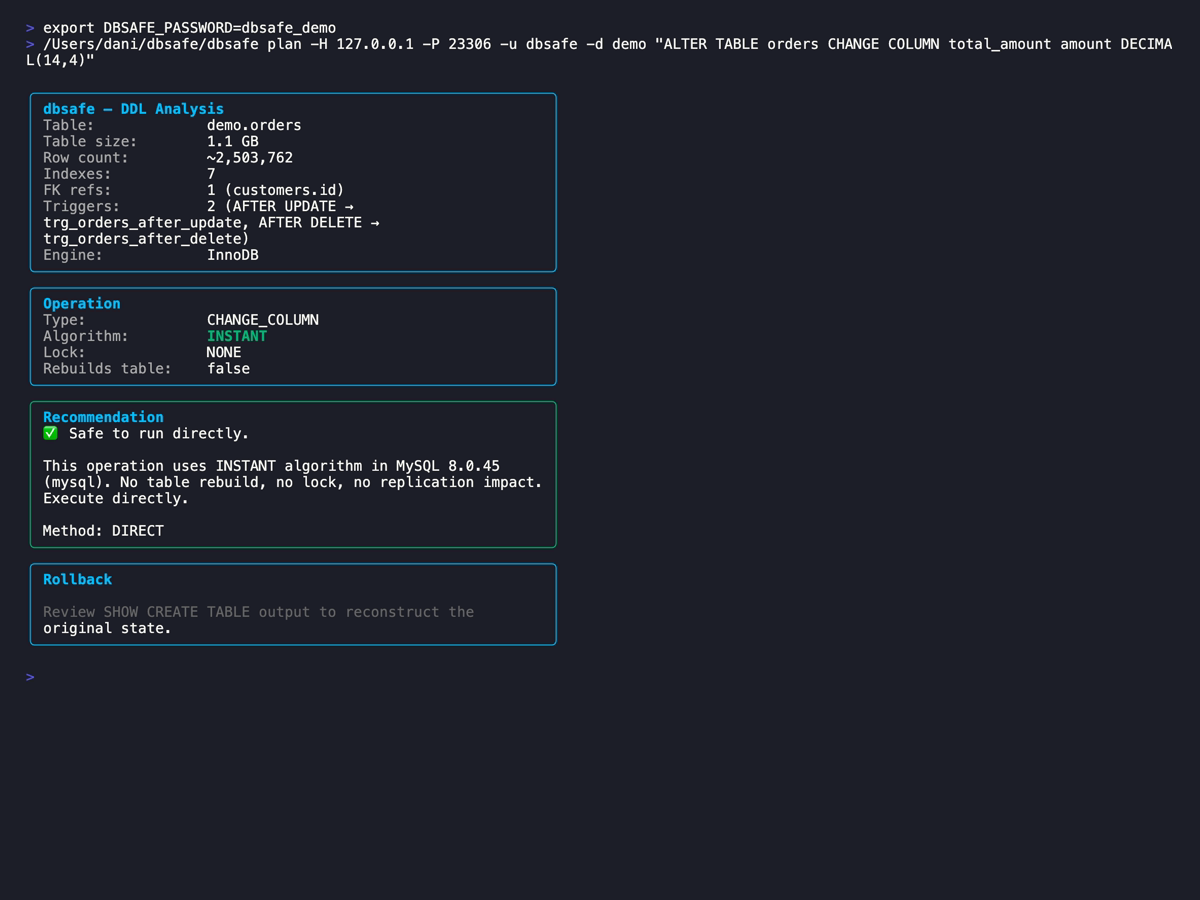
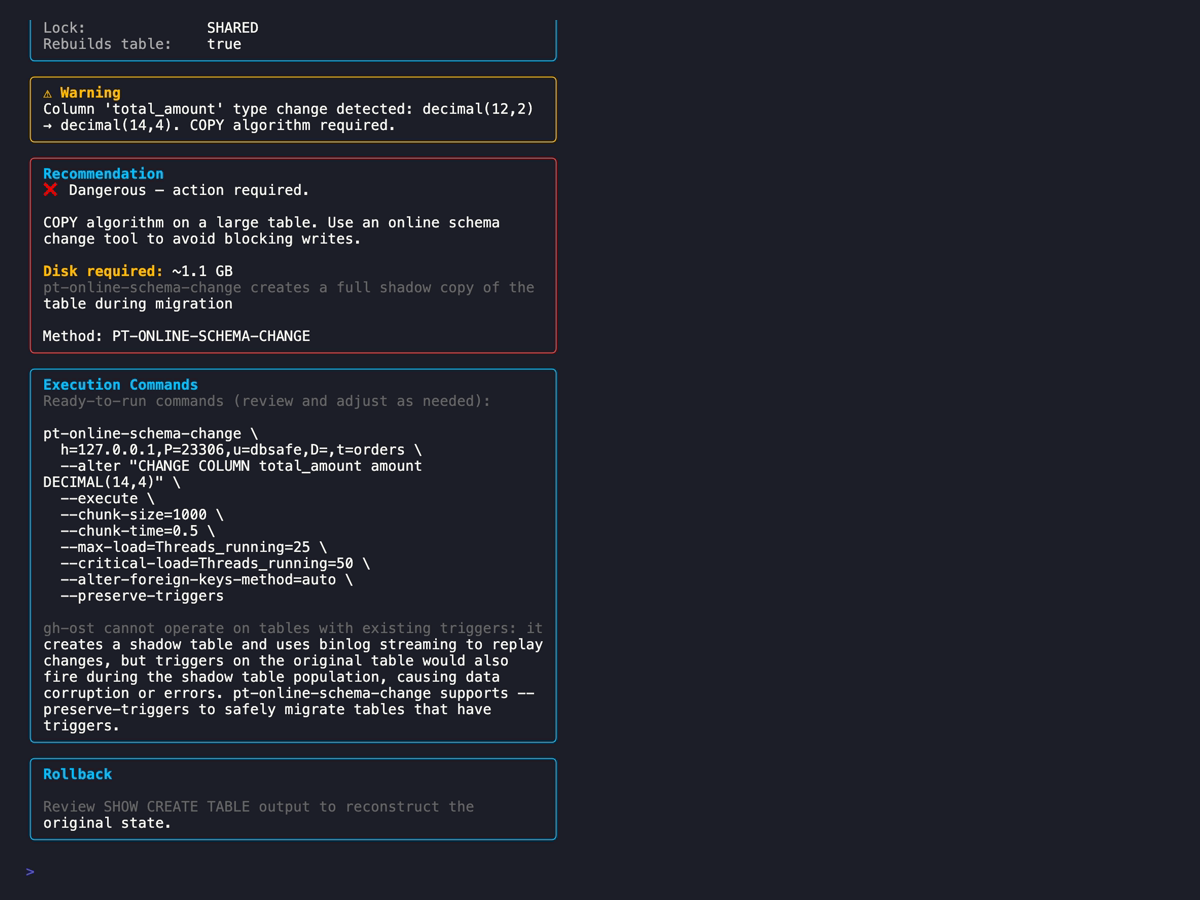
Fact-check and correct COPY algorithm post
- Fix locking model: COPY uses LOCK=SHARED, not exclusive — reads continue
- Fix VARCHAR widening: explain 255-byte length-prefix boundary; charset
  determines whether crossing occurs (utf8mb4 makes VARCHAR(100) = 400 bytes)
- Fix charset conversion: INPLACE with rebuild, not COPY — concurrent DML allowed
- Fix gh-ost trigger claim: gh-ost is triggerless by design; trigger tables are
  an incompatibility, not a mechanism conflict
- Fix replication: replicas re-execute ALTER TABLE independently, not row DML
- Fix RENAME COLUMN version: INSTANT from 8.0.28+ (INPLACE on 8.0.3–8.0.27)
- Fix summary COPY triggers: remove NOT NULL (INPLACE), qualify PK changes
- Fix Galera/Aurora: soften language, Aurora needs workarounds not impossible
- Add gh-ost triggerless design doc to references

Changed region(s): [[0.0, 0.0, 0.9867, 0.9333], [0.2775, 0.8711, 0.4008, 0.9022], [0.3392, 0.2178, 0.4008, 0.2489]]

diff --git a/_posts/2026-02-22-copy-algorithm-mysql-dbsafe.md b/_posts/2026-02-22-copy-algorithm-mysql-dbsafe.md
@@ -10,7 +10,7 @@ header_img: /assets/img/gallery/copy-algorithm-hero.png
 
 You run `ALTER TABLE orders MODIFY COLUMN status VARCHAR(100)` on your production table. It looks simple — the column already exists, you're just increasing the size limit. Then you watch the operation spin for 40 minutes while your application throws lock timeout errors and your replica falls an hour behind. MySQL didn't update the column definition. It built an entirely new copy of the table from scratch.
 
-This is the COPY algorithm: the most disruptive class of `ALTER TABLE` operations. Unlike the [INSTANT DDL operations covered in the previous post](/mysql/tools/2026/02/21/instant-ddl-mysql-dbsafe.html), COPY operations touch every row, hold exclusive locks for the duration, and can take hours on large tables — or days.
+This is the COPY algorithm: the most disruptive class of `ALTER TABLE` operations. Unlike the [INSTANT DDL operations covered in the previous post](/mysql/tools/2026/02/21/instant-ddl-mysql-dbsafe.html), COPY operations touch every row, block DML for the duration, and can take hours on large tables — or days.
 
 This post covers exactly which operations trigger COPY, what physically happens at the InnoDB level, how table size translates to actual risk, and how [dbsafe](/mysql/tools/2026/02/14/introducing-dbsafe-know-before-you-alter.html) detects the algorithm and generates the mitigation commands you need.
 
@@ -43,9 +43,9 @@ No rows are skipped. The operation is as expensive as it looks — a full sequen
 
 Four risk factors compound this:
 
-1. **Exclusive locks** — the table is locked for reads and writes for the entire duration of the copy on MySQL standalone. Applications cannot read or write affected rows.
+1. **Shared lock** — the table is locked for writes (DML) but reads (`SELECT`) continue under `LOCK=SHARED` during the copy. Applications cannot insert, update, or delete rows, but queries can still read.
 2. **Disk space doubles** — the new table must exist alongside the original until the rename. A 200GB table requires 200GB of free disk space during the operation.
-3. **Replication lag** — replicas apply the full row copy as a DML workload, creating lag proportional to table size and I/O throughput.
+3. **Replication lag** — replicas must independently re-execute the full `ALTER TABLE`, creating lag proportional to table size and I/O throughput.
 4. **Duration scales with row count** — 10 million rows takes roughly 10× longer than 1 million rows. There's no shortcut.
 
 INPLACE operations are better — they often avoid the row-by-row copy — but can still require an internal data rebuild and may hold metadata locks. INSTANT is the only truly lock-free path, and it only applies to [a specific set of operations](/mysql/tools/2026/02/21/instant-ddl-mysql-dbsafe.html).
@@ -68,7 +68,14 @@ dbsafe plan "ALTER TABLE orders MODIFY COLUMN status VARCHAR(100)"
 
 dbsafe reports `Algorithm: COPY`, `Lock: SHARED`, and a `Dangerous` risk assessment. The analysis includes disk space required, an explanation of why gh-ost cannot be used (the table has triggers), and a ready-to-run `pt-online-schema-change` command with `--preserve-triggers`.
 
-The reason this triggers COPY comes down to how InnoDB stores variable-length columns. MySQL's row format encodes the length of each `VARCHAR` value using 1 or 2 bytes depending on the declared maximum. A `VARCHAR(20)` uses 1 byte for the length prefix (max 255 bytes fits in 1 byte). A `VARCHAR(100)` at single-byte charset also fits in 1 byte — but MySQL's algorithm is conservative. When any ambiguity exists about whether the internal byte representation changes, MySQL defaults to COPY. Widening a VARCHAR always triggers a full rebuild.
+The reason this triggers COPY comes down to how InnoDB stores variable-length columns. MySQL's row format encodes the length of each `VARCHAR` value using 1 or 2 bytes depending on the declared maximum:
+
+- **1-byte length prefix**: VARCHAR where `max_chars × bytes_per_char ≤ 255`
+- **2-byte length prefix**: VARCHAR where `max_chars × bytes_per_char > 255`
+
+Crossing that 255-byte boundary forces an on-disk format change that requires rewriting every row — triggering COPY.
+
+The charset is the critical variable. With `latin1` (1 byte/char), `VARCHAR(20)` = 20 bytes and `VARCHAR(100)` = 100 bytes — both stay under 255, so the expansion is INPLACE. With `utf8mb4` (up to 4 bytes/char), `VARCHAR(20)` = 80 bytes and `VARCHAR(100)` = 400 bytes — crossing the boundary triggers COPY. The `orders` table uses `utf8mb4`, which is why dbsafe reports COPY here.
 
 The practical rule: **any `MODIFY COLUMN` that changes size, type, nullability, or charset will use COPY or INPLACE — never INSTANT.**
 
@@ -84,9 +91,9 @@ dbsafe plan "ALTER TABLE orders CHANGE COLUMN total_amount amount DECIMAL(14,4)"
 
 The type change from `DECIMAL(12,2)` to `DECIMAL(14,4)` forces COPY. Changing decimal scale (the digits after the decimal point) modifies the internal binary encoding of every stored value — so every row must be rewritten.
 
-Note that not all DECIMAL precision changes force COPY. MySQL 8.0.29+ can handle some widening operations as INSTANT if the scale stays the same. When in doubt, run `dbsafe plan` against your actual MySQL version before assuming the algorithm.
+All DECIMAL precision changes require `ALGORITHM=COPY` — there are no INSTANT or INPLACE exceptions like VARCHAR has ([MySQL docs](https://dev.mysql.com/doc/refman/8.0/en/innodb-online-ddl-operations.html)). When in doubt, run `dbsafe plan` against your actual MySQL version before assuming the algorithm.
 
-> **Tip:** If you only need to rename the column — without changing the type — use `RENAME COLUMN` instead of `CHANGE COLUMN`. `RENAME COLUMN` is available from MySQL 8.0.3+ and executes as INSTANT DDL: no row copies, no locks, milliseconds regardless of table size.
+> **Tip:** If you only need to rename the column — without changing the type — use `RENAME COLUMN` instead of `CHANGE COLUMN`. `RENAME COLUMN` is available from MySQL 8.0.3+; it executes as INSTANT DDL from MySQL 8.0.28+ (INPLACE on earlier 8.0.x versions). Either way: no full row copy, milliseconds on any table size.
 >
 > ```sql
 > -- INSTANT on MySQL 8.0.3+ (rename only, no type change)
@@ -98,7 +105,7 @@ Note that not all DECIMAL precision changes force COPY. MySQL 8.0.29+ can handle
 
 ## Character Set Conversion
 
-Converting a table's character set is always COPY — no exceptions. When you run:
+Converting a table's character set triggers a full table rebuild using `ALGORITHM=INPLACE` — not COPY. The distinction matters: unlike COPY, INPLACE charset conversion permits concurrent DML (`LOCK=NONE`), so reads and writes are not blocked during the operation. That said, the physical work is equivalent — every string value in every row must be re-encoded. When you run:
 
 ```bash
 dbsafe plan "ALTER TABLE orders CONVERT TO CHARACTER SET utf8mb4 COLLATE utf8mb4_unicode_ci"
@@ -121,15 +128,15 @@ When dbsafe detects a COPY algorithm operation, it doesn't just warn you — it 
 
 You already saw the full output in the MODIFY COLUMN screenshot above. The bottom of the dbsafe report includes a complete `pt-online-schema-change` command with your server's connection parameters, the table name, and the `--alter` flag pre-populated with your statement. You copy, review, and run it.
 
-For the `orders` table in our demo, dbsafe recommended pt-osc — not gh-ost — because `orders` has two triggers (`trg_orders_after_update`, `trg_orders_after_delete`). gh-ost cannot operate on tables with existing triggers: it installs its own triggers on the shadow table as part of its row-copy mechanism, and MySQL only allows one trigger per event/timing combination. dbsafe detects triggers via `information_schema.TRIGGERS` and switches the recommendation automatically.
+For the `orders` table in our demo, dbsafe recommended pt-osc — not gh-ost — because `orders` has two triggers (`trg_orders_after_update`, `trg_orders_after_delete`). gh-ost explicitly does not support tables with existing triggers — this is a documented hard limitation. gh-ost is triggerless by design: it captures row changes via binlog streaming rather than installing triggers. But when the source table has its own triggers, those triggers fire during gh-ost's row copy and can produce unexpected side effects (double-firing, inconsistent data). gh-ost refuses to run in this case. dbsafe detects triggers via `information_schema.TRIGGERS` and switches the recommendation to pt-osc automatically.
 
 **The full decision matrix for which tool dbsafe recommends:**
 
-- **Table has triggers → pt-online-schema-change** — gh-ost installs its own `AFTER UPDATE` and `AFTER DELETE` triggers on the shadow table. If your table already has triggers on those events, the installation fails. dbsafe checks for triggers first and routes to pt-osc.
+- **Table has triggers → pt-online-schema-change** — gh-ost cannot operate on tables with existing triggers (known limitation). dbsafe checks for triggers first and routes to pt-osc, which handles triggers correctly via `--preserve-triggers`.
 
-- **Galera/PXC cluster → pt-online-schema-change** — gh-ost's binlog streaming approach conflicts with Galera's writeset-based replication. pt-osc uses standard SQL DML that replicates correctly through wsrep. dbsafe detects the cluster topology and switches the recommendation automatically.
+- **Galera/PXC cluster → pt-online-schema-change** — gh-ost has known incompatibilities with Galera/PXC due to differences in how DDL and locking interact with writeset replication. pt-osc uses standard SQL DML that replicates correctly through wsrep. dbsafe detects the cluster topology and switches the recommendation automatically.
 
-- **Amazon Aurora → pt-online-schema-change** — Aurora uses storage-layer replication rather than binlog-based replication. gh-ost's dependency on binlog streaming means it cannot be used directly against Aurora writer instances. pt-osc works correctly.
+- **Amazon Aurora → pt-online-schema-change** — gh-ost requires additional configuration and workarounds to run against Aurora (`--allow-on-master`, binary log configuration). pt-osc works correctly without extra configuration.
 
 - **Standalone MySQL or async replication, no triggers → gh-ost (default)** — gh-ost uses binlog streaming rather than triggers, making it pausable, throttleable, and safer for high-write environments. It's the preferred tool when no triggers or cluster topology prevents it.
 
@@ -170,8 +177,8 @@ For automated pipelines, `dbsafe plan --format json` lets you extract the algori
 
 ## Summary
 
-1. **COPY algorithm means a full table duplicate** — MySQL creates a new table, copies every row, then swaps. Disk space doubles temporarily, and exclusive locks are held throughout on standalone MySQL.
-2. **The most common COPY triggers are** `MODIFY COLUMN` (any size or type change), `CHANGE COLUMN` with a type change, charset conversions (`CONVERT TO CHARACTER SET`), primary key changes, and adding `NOT NULL` without a default.
+1. **COPY algorithm means a full table duplicate** — MySQL creates a new table, copies every row, then swaps. Disk space doubles temporarily. DML (writes) is blocked throughout under `LOCK=SHARED`, but reads can continue.
+2. **The most common COPY triggers are** `MODIFY COLUMN` (any size or type change that crosses the VARCHAR length-prefix boundary or changes binary encoding), `CHANGE COLUMN` with a type change, and dropping a primary key without replacement. Charset conversions and some other structural changes use INPLACE with a full rebuild — the row copy still happens, but concurrent reads and writes are allowed.
 3. **Risk scales with table size** — a COPY on a 500GB table takes hours; a COPY on a 50MB table takes seconds. dbsafe estimates duration from your actual row count and row size.
 4. **dbsafe detects the algorithm and generates the mitigation command** — gh-ost for standalone and async replication, pt-osc for triggered tables, Galera/PXC clusters, and Aurora.
 5. **Always run `dbsafe plan` before any production schema change** — especially for operations that look innocent, like expanding a VARCHAR or renaming a column with a type change.
@@ -191,6 +198,7 @@ Happy (safe) schema changes!
 **Tools:**
 - [dbsafe — GitHub Repository](https://github.com/nethalo/dbsafe)
 - [gh-ost — GitHub's Online Schema Migration Tool](https://github.com/github/gh-ost)
+- [gh-ost Triggerless Design](https://github.com/github/gh-ost/blob/master/doc/triggerless-design.md)
 - [pt-online-schema-change — Percona Toolkit](https://docs.percona.com/percona-toolkit/pt-online-schema-change.html)
 
 **Related Posts:**
